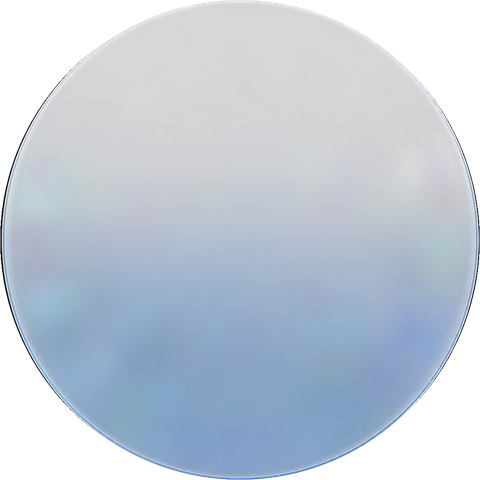
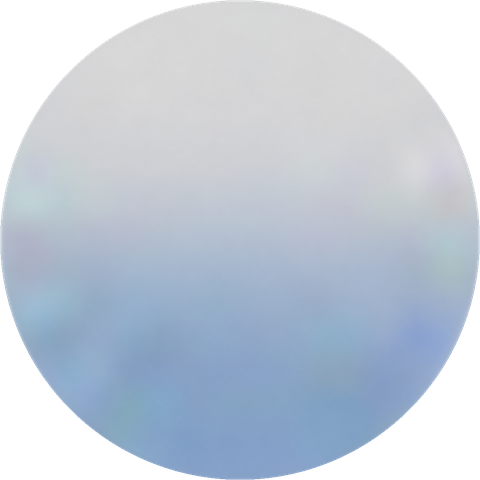
fix(theme): tighten glass dial crop + white overlay text for glass theme
裁剪再收一圈（r557→540），去掉表盘外侧残留的隐约黑边（图案边缘的抗锯齿暗 fringe）。

glass 主题叠加文字（日期/token数/消息/天气）由墨色/灰改为白色（textPrimaryColor=白，textSecondaryColor=白@0.8 保留层级），在复古图案盘上更干净。指针/秒针/刻度色不变。

diff --git a/Sources/TokenClock/Models/ClockFaceTheme.swift b/Sources/TokenClock/Models/ClockFaceTheme.swift
@@ -308,7 +308,7 @@ enum ClockFaceTheme: String, CaseIterable, Identifiable {
         case .gufeng: return Color(red: 0.250, green: 0.180, blue: 0.130)
         case .railgun: return Color(red: 0.500, green: 0.350, blue: 0.300)
         case .sky: return Color(red: 0.180, green: 0.340, blue: 0.520)
-        case .glass: return Color(red: 0.16, green: 0.16, blue: 0.18)
+        case .glass: return Color.white                                       // 白字：复古图案盘上高对比
         case .custom: return custom.textPrimaryColor.swiftUIColor
         }
     }
@@ -321,7 +321,7 @@ enum ClockFaceTheme: String, CaseIterable, Identifiable {
         case .gufeng: return Color(red: 0.500, green: 0.380, blue: 0.280)
         case .railgun: return Color(red: 0.680, green: 0.560, blue: 0.480)
         case .sky: return Color(red: 0.380, green: 0.520, blue: 0.660)
-        case .glass: return Color(red: 0.45, green: 0.45, blue: 0.48)
+        case .glass: return Color(white: 1.0).opacity(0.8)                    // 白字（次级，略淡以保留层级）
         case .custom: return custom.textSecondaryColor.swiftUIColor
         }
     }
